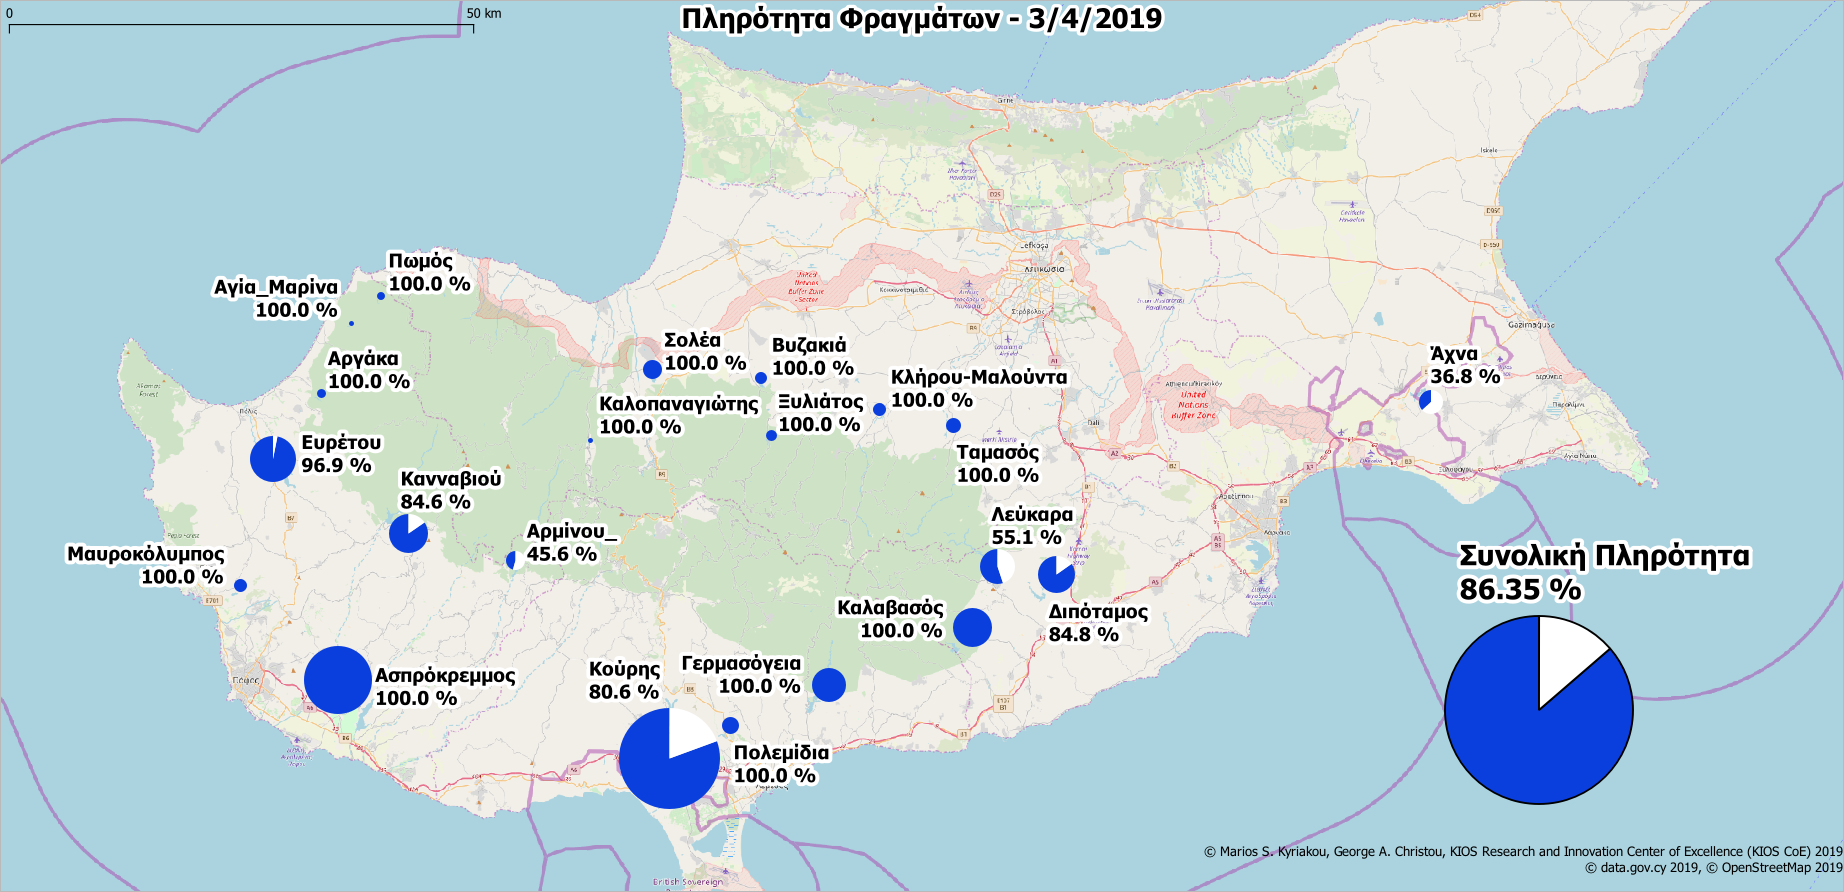
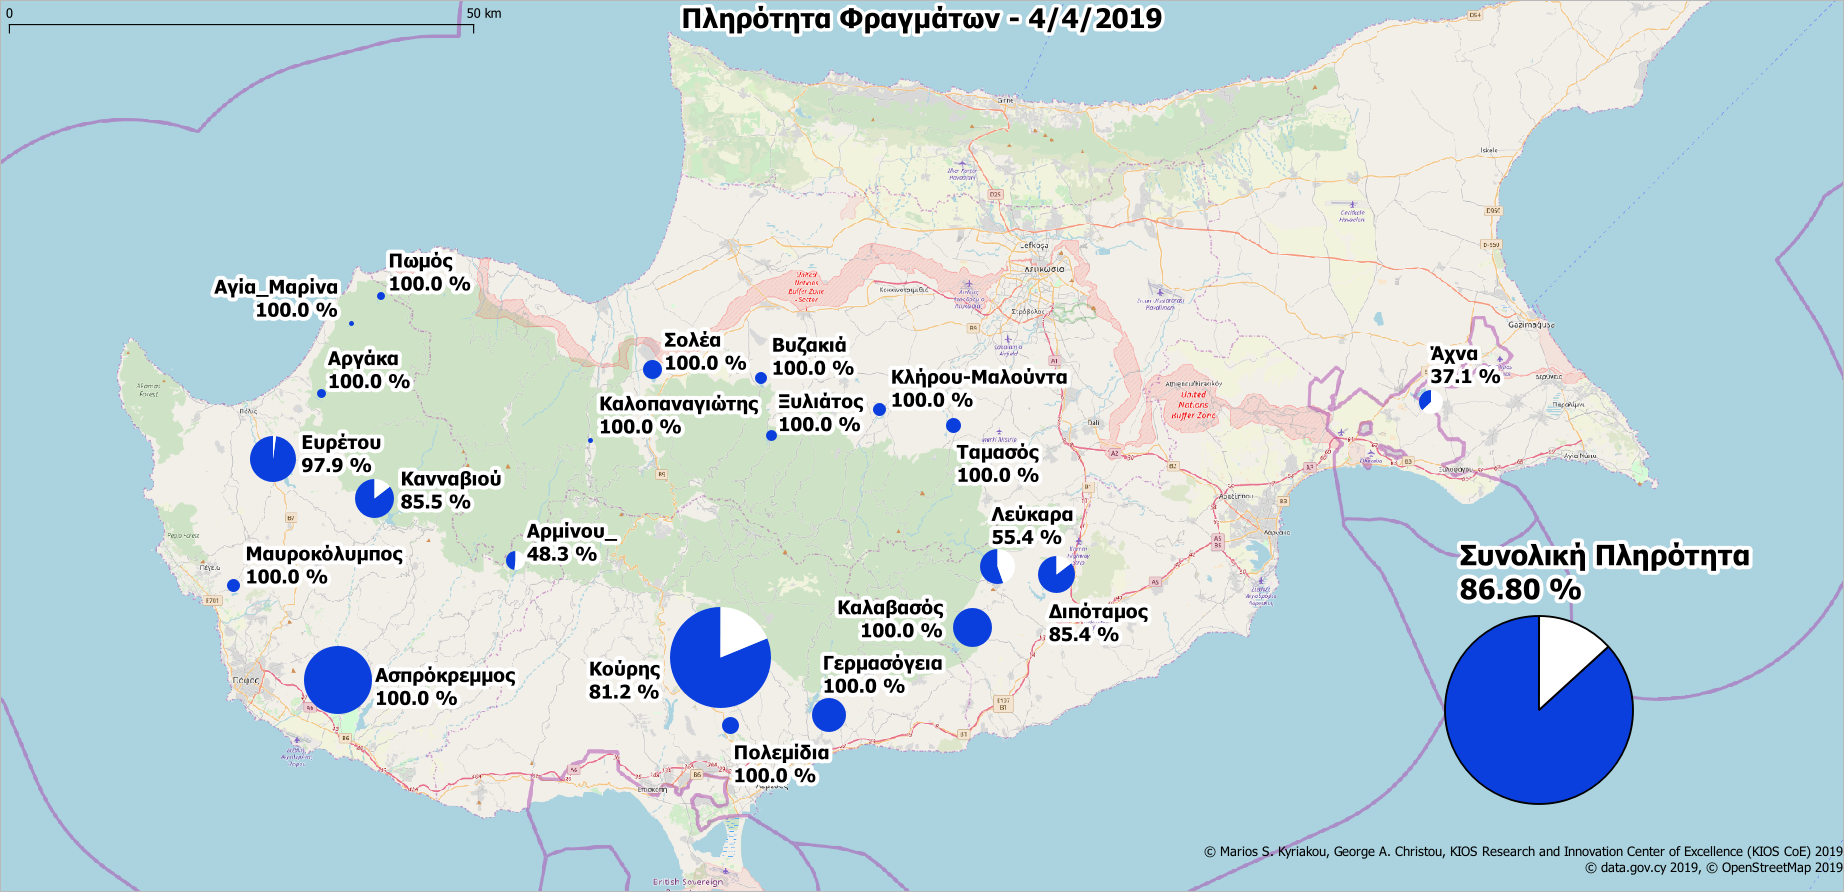
update

diff --git a/dams.html b/dams.html
@@ -11,7 +11,7 @@
      1px  1px 7px WHITE;
 }
 }
-</style><p><b>Ημερομηνία ανανέωσης δεδομένων: 3/4/2019<p><font color="#0000FF">Η συνολική πληρότητα στα φράγματα είναι 86.35%</font>.<p>Υπάρχουν συνολικά <font color="#0000FF">14</font> φράγματα με πληρότητα <font color="#0000FF">100%</font>.<p>Υπάρχουν <font color="#0000FF">19</font> φράγματα με πληρότητα πάνω από <font color="#0000FF">50%</font>.</b><p><b>Υπάρχουν δεδομένα για 21 φράγματα. Συνολικά υπάρχουν 108 φράγματα. <b><p><p><p>* Ε.Κ.Μ. - Εκατομμύρια Kυβικά  Mέτρα.<table width="444">
+</style><p><b>Ημερομηνία ανανέωσης δεδομένων: 4/4/2019<p><font color="#0000FF">Η συνολική πληρότητα στα φράγματα είναι 86.80%</font>.<p>Υπάρχουν συνολικά <font color="#0000FF">14</font> φράγματα με πληρότητα <font color="#0000FF">100%</font>.<p>Υπάρχουν <font color="#0000FF">19</font> φράγματα με πληρότητα πάνω από <font color="#0000FF">50%</font>.</b><p><b>Υπάρχουν δεδομένα για 21 φράγματα. Συνολικά υπάρχουν 108 φράγματα. <b><p><p><p>* Ε.Κ.Μ. - Εκατομμύρια Kυβικά  Mέτρα.<table width="444">
 <tbody>
 <tr>
 <th width="2"><b></b></th>
@@ -19,7 +19,7 @@
 <th width="60"><b>Χωρητικότητα (Ε.Κ.Μ.)</b></th>
 <th width="60"><b>Σημερινή (Ε.Κ.Μ.)</b></th>
 <th width="60"><b> Σημερινή Πληρότητα (%)</b></th>
-</tr><tr><td bgcolor=#48AC4E class=border-white>1</td><td bgcolor=#48AC4E class=border-white>Κούρης</td><td bgcolor=#48AC4E class=border-white>115.0</td><td bgcolor=#48AC4E class=border-white>92.636</td><td bgcolor=#48AC4E class=border-white>80.6</td></tr><tr><tr><td bgcolor=#1A9641 class=border-white>2</td><td bgcolor=#1A9641 class=border-white>Ασπρόκρεμμος</td><td bgcolor=#1A9641 class=border-white>52.375</td><td bgcolor=#1A9641 class=border-white>52.375</td><td bgcolor=#1A9641 class=border-white>100.0</td></tr><tr><tr><td bgcolor=#1A9641 class=border-white>3</td><td bgcolor=#1A9641 class=border-white>Ευρέτου</td><td bgcolor=#1A9641 class=border-white>24.0</td><td bgcolor=#1A9641 class=border-white>23.263</td><td bgcolor=#1A9641 class=border-white>96.9</td></tr><tr><tr><td bgcolor=#48AC4E class=border-white>4</td><td bgcolor=#48AC4E class=border-white>Κανναβιού</td><td bgcolor=#48AC4E class=border-white>17.168</td><td bgcolor=#48AC4E class=border-white>14.525</td><td bgcolor=#48AC4E class=border-white>84.6</td></tr><tr><tr><td bgcolor=#1A9641 class=border-white>5</td><td bgcolor=#1A9641 class=border-white>Καλαβασός</td><td bgcolor=#1A9641 class=border-white>17.1</td><td bgcolor=#1A9641 class=border-white>17.1</td><td bgcolor=#1A9641 class=border-white>100.0</td></tr><tr><tr><td bgcolor=#48AC4E class=border-white>6</td><td bgcolor=#48AC4E class=border-white>Διπόταμος</td><td bgcolor=#48AC4E class=border-white>15.5</td><td bgcolor=#48AC4E class=border-white>13.141</td><td bgcolor=#48AC4E class=border-white>84.8</td></tr><tr><tr><td bgcolor=#D2EC95 class=border-white>7</td><td bgcolor=#D2EC95 class=border-white>Λεύκαρα</td><td bgcolor=#D2EC95 class=border-white>13.85</td><td bgcolor=#D2EC95 class=border-white>7.637</td><td bgcolor=#D2EC95 class=border-white>55.1</td></tr><tr><tr><td bgcolor=#1A9641 class=border-white>8</td><td bgcolor=#1A9641 class=border-white>Γερμασόγεια</td><td bgcolor=#1A9641 class=border-white>13.5</td><td bgcolor=#1A9641 class=border-white>13.5</td><td bgcolor=#1A9641 class=border-white>100.0</td></tr><tr><tr><td bgcolor=#FED690 class=border-white>9</td><td bgcolor=#FED690 class=border-white>Άχνα</td><td bgcolor=#FED690 class=border-white>6.8</td><td bgcolor=#FED690 class=border-white>2.503</td><td bgcolor=#FED690 class=border-white>36.8</td></tr><tr><tr><td bgcolor=#1A9641 class=border-white>10</td><td bgcolor=#1A9641 class=border-white>Σολέα</td><td bgcolor=#1A9641 class=border-white>4.454</td><td bgcolor=#1A9641 class=border-white>4.454</td><td bgcolor=#1A9641 class=border-white>100.0</td></tr><tr><tr><td bgcolor=#FFFFC0 class=border-white>11</td><td bgcolor=#FFFFC0 class=border-white>Αρμίνου_</td><td bgcolor=#FFFFC0 class=border-white>4.3</td><td bgcolor=#FFFFC0 class=border-white>1.962</td><td bgcolor=#FFFFC0 class=border-white>45.6</td></tr><tr><tr><td bgcolor=#1A9641 class=border-white>12</td><td bgcolor=#1A9641 class=border-white>Πολεμίδια</td><td bgcolor=#1A9641 class=border-white>3.4</td><td bgcolor=#1A9641 class=border-white>3.4</td><td bgcolor=#1A9641 class=border-white>100.0</td></tr><tr><tr><td bgcolor=#1A9641 class=border-white>13</td><td bgcolor=#1A9641 class=border-white>Ταμασός</td><td bgcolor=#1A9641 class=border-white>2.8</td><td bgcolor=#1A9641 class=border-white>2.8</td><td bgcolor=#1A9641 class=border-white>100.0</td></tr><tr><tr><td bgcolor=#1A9641 class=border-white>14</td><td bgcolor=#1A9641 class=border-white>Μαυροκόλυμπος</td><td bgcolor=#1A9641 class=border-white>2.18</td><td bgcolor=#1A9641 class=border-white>2.18</td><td bgcolor=#1A9641 class=border-white>100.0</td></tr><tr><tr><td bgcolor=#1A9641 class=border-white>15</td><td bgcolor=#1A9641 class=border-white>Κλήρου-Μαλούντα</td><td bgcolor=#1A9641 class=border-white>2.0</td><td bgcolor=#1A9641 class=border-white>2.0</td><td bgcolor=#1A9641 class=border-white>100.0</td></tr><tr><tr><td bgcolor=#1A9641 class=border-white>16</td><td bgcolor=#1A9641 class=border-white>Βυζακιά</td><td bgcolor=#1A9641 class=border-white>1.69</td><td bgcolor=#1A9641 class=border-white>1.69</td><td bgcolor=#1A9641 class=border-white>100.0</td></tr><tr><tr><td bgcolor=#1A9641 class=border-white>17</td><td bgcolor=#1A9641 class=border-white>Ξυλιάτος</td><td bgcolor=#1A9641 class=border-white>1.43</td><td bgcolor=#1A9641 class=border-white>1.43</td><td bgcolor=#1A9641 class=border-white>100.0</td></tr><tr><tr><td bgcolor=#1A9641 class=border-white>18</td><td bgcolor=#1A9641 class=border-white>Αργάκα</td><td bgcolor=#1A9641 class=border-white>0.99</td><td bgcolor=#1A9641 class=border-white>0.99</td><td bgcolor=#1A9641 class=border-white>100.0</td></tr><tr><tr><td bgcolor=#1A9641 class=border-white>19</td><td bgcolor=#1A9641 class=border-white>Πωμός</td><td bgcolor=#1A9641 class=border-white>0.86</td><td bgcolor=#1A9641 class=border-white>0.86</td><td bgcolor=#1A9641 class=border-white>100.0</td></tr><tr><tr><td bgcolor=#1A9641 class=border-white>20</td><td bgcolor=#1A9641 class=border-white>Καλοπαναγιώτης</td><td bgcolor=#1A9641 class=border-white>0.363</td><td bgcolor=#1A9641 class=border-white>0.363</td><td bgcolor=#1A9641 class=border-white>100.0</td></tr><tr><tr><td bgcolor=#1A9641 class=border-white>21</td><td bgcolor=#1A9641 class=border-white>Αγία_Μαρίνα</td><td bgcolor=#1A9641 class=border-white>0.298</td><td bgcolor=#1A9641 class=border-white>0.298</td><td bgcolor=#1A9641 class=border-white>100.0</td></tr><tr>
+</tr><tr><td bgcolor=#48AC4E class=border-white>1</td><td bgcolor=#48AC4E class=border-white>Κούρης</td><td bgcolor=#48AC4E class=border-white>115.0</td><td bgcolor=#48AC4E class=border-white>93.333</td><td bgcolor=#48AC4E class=border-white>81.2</td></tr><tr><tr><td bgcolor=#1A9641 class=border-white>2</td><td bgcolor=#1A9641 class=border-white>Ασπρόκρεμμος</td><td bgcolor=#1A9641 class=border-white>52.375</td><td bgcolor=#1A9641 class=border-white>52.375</td><td bgcolor=#1A9641 class=border-white>100.0</td></tr><tr><tr><td bgcolor=#1A9641 class=border-white>3</td><td bgcolor=#1A9641 class=border-white>Ευρέτου</td><td bgcolor=#1A9641 class=border-white>24.0</td><td bgcolor=#1A9641 class=border-white>23.488</td><td bgcolor=#1A9641 class=border-white>97.9</td></tr><tr><tr><td bgcolor=#48AC4E class=border-white>4</td><td bgcolor=#48AC4E class=border-white>Κανναβιού</td><td bgcolor=#48AC4E class=border-white>17.168</td><td bgcolor=#48AC4E class=border-white>14.675</td><td bgcolor=#48AC4E class=border-white>85.5</td></tr><tr><tr><td bgcolor=#1A9641 class=border-white>5</td><td bgcolor=#1A9641 class=border-white>Καλαβασός</td><td bgcolor=#1A9641 class=border-white>17.1</td><td bgcolor=#1A9641 class=border-white>17.1</td><td bgcolor=#1A9641 class=border-white>100.0</td></tr><tr><tr><td bgcolor=#48AC4E class=border-white>6</td><td bgcolor=#48AC4E class=border-white>Διπόταμος</td><td bgcolor=#48AC4E class=border-white>15.5</td><td bgcolor=#48AC4E class=border-white>13.24</td><td bgcolor=#48AC4E class=border-white>85.4</td></tr><tr><tr><td bgcolor=#D2EC95 class=border-white>7</td><td bgcolor=#D2EC95 class=border-white>Λεύκαρα</td><td bgcolor=#D2EC95 class=border-white>13.85</td><td bgcolor=#D2EC95 class=border-white>7.677</td><td bgcolor=#D2EC95 class=border-white>55.4</td></tr><tr><tr><td bgcolor=#1A9641 class=border-white>8</td><td bgcolor=#1A9641 class=border-white>Γερμασόγεια</td><td bgcolor=#1A9641 class=border-white>13.5</td><td bgcolor=#1A9641 class=border-white>13.5</td><td bgcolor=#1A9641 class=border-white>100.0</td></tr><tr><tr><td bgcolor=#FED690 class=border-white>9</td><td bgcolor=#FED690 class=border-white>Άχνα</td><td bgcolor=#FED690 class=border-white>6.8</td><td bgcolor=#FED690 class=border-white>2.522</td><td bgcolor=#FED690 class=border-white>37.1</td></tr><tr><tr><td bgcolor=#1A9641 class=border-white>10</td><td bgcolor=#1A9641 class=border-white>Σολέα</td><td bgcolor=#1A9641 class=border-white>4.454</td><td bgcolor=#1A9641 class=border-white>4.454</td><td bgcolor=#1A9641 class=border-white>100.0</td></tr><tr><tr><td bgcolor=#FFFFC0 class=border-white>11</td><td bgcolor=#FFFFC0 class=border-white>Αρμίνου_</td><td bgcolor=#FFFFC0 class=border-white>4.3</td><td bgcolor=#FFFFC0 class=border-white>2.075</td><td bgcolor=#FFFFC0 class=border-white>48.3</td></tr><tr><tr><td bgcolor=#1A9641 class=border-white>12</td><td bgcolor=#1A9641 class=border-white>Πολεμίδια</td><td bgcolor=#1A9641 class=border-white>3.4</td><td bgcolor=#1A9641 class=border-white>3.4</td><td bgcolor=#1A9641 class=border-white>100.0</td></tr><tr><tr><td bgcolor=#1A9641 class=border-white>13</td><td bgcolor=#1A9641 class=border-white>Ταμασός</td><td bgcolor=#1A9641 class=border-white>2.8</td><td bgcolor=#1A9641 class=border-white>2.8</td><td bgcolor=#1A9641 class=border-white>100.0</td></tr><tr><tr><td bgcolor=#1A9641 class=border-white>14</td><td bgcolor=#1A9641 class=border-white>Μαυροκόλυμπος</td><td bgcolor=#1A9641 class=border-white>2.18</td><td bgcolor=#1A9641 class=border-white>2.18</td><td bgcolor=#1A9641 class=border-white>100.0</td></tr><tr><tr><td bgcolor=#1A9641 class=border-white>15</td><td bgcolor=#1A9641 class=border-white>Κλήρου-Μαλούντα</td><td bgcolor=#1A9641 class=border-white>2.0</td><td bgcolor=#1A9641 class=border-white>2.0</td><td bgcolor=#1A9641 class=border-white>100.0</td></tr><tr><tr><td bgcolor=#1A9641 class=border-white>16</td><td bgcolor=#1A9641 class=border-white>Βυζακιά</td><td bgcolor=#1A9641 class=border-white>1.69</td><td bgcolor=#1A9641 class=border-white>1.69</td><td bgcolor=#1A9641 class=border-white>100.0</td></tr><tr><tr><td bgcolor=#1A9641 class=border-white>17</td><td bgcolor=#1A9641 class=border-white>Ξυλιάτος</td><td bgcolor=#1A9641 class=border-white>1.43</td><td bgcolor=#1A9641 class=border-white>1.43</td><td bgcolor=#1A9641 class=border-white>100.0</td></tr><tr><tr><td bgcolor=#1A9641 class=border-white>18</td><td bgcolor=#1A9641 class=border-white>Αργάκα</td><td bgcolor=#1A9641 class=border-white>0.99</td><td bgcolor=#1A9641 class=border-white>0.99</td><td bgcolor=#1A9641 class=border-white>100.0</td></tr><tr><tr><td bgcolor=#1A9641 class=border-white>19</td><td bgcolor=#1A9641 class=border-white>Πωμός</td><td bgcolor=#1A9641 class=border-white>0.86</td><td bgcolor=#1A9641 class=border-white>0.86</td><td bgcolor=#1A9641 class=border-white>100.0</td></tr><tr><tr><td bgcolor=#1A9641 class=border-white>20</td><td bgcolor=#1A9641 class=border-white>Καλοπαναγιώτης</td><td bgcolor=#1A9641 class=border-white>0.363</td><td bgcolor=#1A9641 class=border-white>0.363</td><td bgcolor=#1A9641 class=border-white>100.0</td></tr><tr><tr><td bgcolor=#1A9641 class=border-white>21</td><td bgcolor=#1A9641 class=border-white>Αγία_Μαρίνα</td><td bgcolor=#1A9641 class=border-white>0.298</td><td bgcolor=#1A9641 class=border-white>0.298</td><td bgcolor=#1A9641 class=border-white>100.0</td></tr><tr>
 </tr>
 <tr>
 <td></td>
